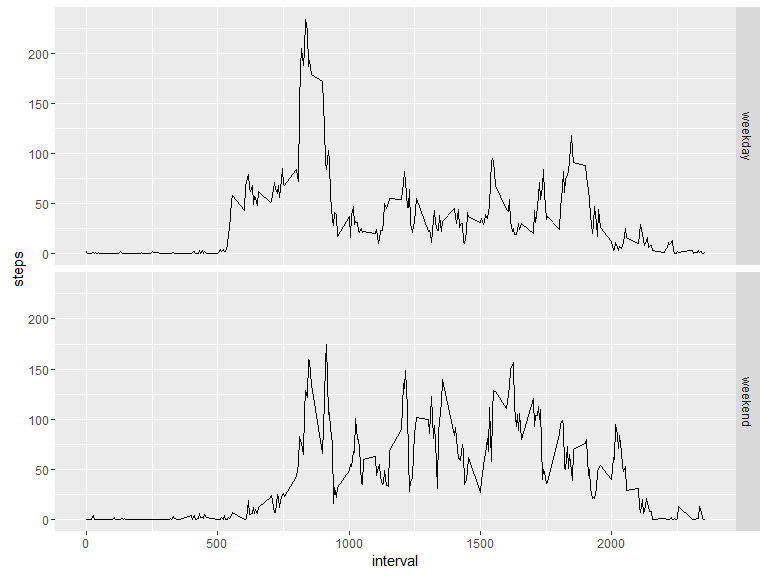
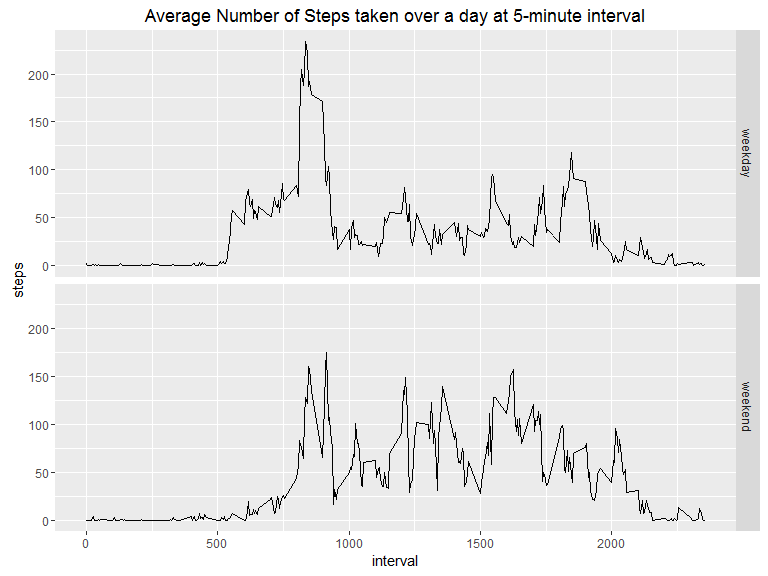
Corrections

diff --git a/PA1_template.html b/PA1_template.html
@@ -68,38 +68,41 @@ img {
 library(dplyr)
 library(ggplot2)
 library(lattice)</code></pre>
-<div id="loading-and-preprocessing-the-data" class="section level2">
-<h2>Loading and preprocessing the data</h2>
+<div id="loading-and-preprocessing-the-data." class="section level2">
+<h2>Loading and preprocessing the data.</h2>
 <pre class="r"><code>if(!file.exists(&quot;activity.csv&quot;)){unzip(&quot;activity.zip&quot;)}
 activity &lt;- read.csv(&quot;activity.csv&quot;, stringsAsFactors = FALSE)</code></pre>
 </div>
 <div id="what-is-mean-total-number-of-steps-taken-per-day" class="section level2">
 <h2>What is mean total number of steps taken per day?</h2>
-<div id="transform-date-from-character-to-date-format-and-get-total-steps-per-day" class="section level4">
-<h4>1. Transform date from character to date format and get total steps per day</h4>
-<pre class="r"><code>summaryActivity &lt;- activity %&gt;% transform(date = ymd(date)) %&gt;% group_by(date) %&gt;% summarise(steps = sum(steps, na.rm = TRUE))</code></pre>
+<div id="transform-date-from-character-to-date-format-and-get-total-steps-per-day." class="section level4">
+<h4>1. Transform date from character to date format and get total steps per day.</h4>
+<pre class="r"><code>summaryActivity &lt;- activity %&gt;% transform(date = ymd(date)) %&gt;% 
+    group_by(date) %&gt;% summarise(steps = sum(steps, na.rm = TRUE))</code></pre>
 </div>
-<div id="make-a-histogram-of-the-total-number-of-steps-taken-each-day" class="section level4">
-<h4>2. Make a histogram of the total number of steps taken each day</h4>
-<pre class="r"><code>hist(summaryActivity$steps, col = &quot;green&quot;, main = &quot;Histogram of total daily steps&quot;,
+<div id="make-a-histogram-of-the-total-number-of-steps-taken-each-day." class="section level4">
+<h4>2. Make a histogram of the total number of steps taken each day.</h4>
+<pre class="r"><code>hist(summaryActivity$steps, col = &quot;green&quot;, 
+     main = &quot;Histogram of total daily steps&quot;,
      xlab = &quot;Steps&quot;, breaks = 10)
      
 abline(v = mean(summaryActivity$steps), lwd = 2, lty = 1, col = &quot;purple&quot;)
 
 abline(v = median(summaryActivity$steps), lwd = 2, lty = 1, col = &quot;blue&quot;)
 
-legend(x= 13000, y= 16, lwd = 2, lty = 1, col = c(&quot;purple&quot;,&quot;blue&quot;), legend = c(&quot;Mean&quot;, &quot;Median&quot;), bty=&quot;n&quot;, y.intersp = .5)</code></pre>
+legend(x= 13000, y= 16, lwd = 2, lty = 1, col = c(&quot;purple&quot;,&quot;blue&quot;), 
+       legend = c(&quot;Mean&quot;, &quot;Median&quot;), bty=&quot;n&quot;, y.intersp = .5)</code></pre>
[1 lines of base64/hex data omitted]
 </div>
-<div id="report-the-mean-and-median-of-the-total-number-of-steps-taken-per-day" class="section level4">
-<h4>3. Report the mean and median of the total number of steps taken per day</h4>
+<div id="report-the-mean-and-median-of-the-total-number-of-steps-taken-per-day." class="section level4">
+<h4>3. Report the mean and median of the total number of steps taken per day.</h4>
 <div id="mean" class="section level5">
-<h5>Mean</h5>
+<h5>Mean:</h5>
 <pre class="r"><code>mean(summaryActivity$steps)</code></pre>
 <pre><code>## [1] 9354.23</code></pre>
 </div>
 <div id="median" class="section level5">
-<h5>Median</h5>
+<h5>Median:</h5>
 <pre class="r"><code>median(summaryActivity$steps)</code></pre>
 <pre><code>## [1] 10395</code></pre>
 </div>
@@ -107,13 +110,13 @@ legend(x= 13000, y= 16, lwd = 2, lty = 1, col = c(&quot;purple&quot;,&quot;blue&
 </div>
 <div id="what-is-the-average-daily-activity-pattern" class="section level2">
 <h2>What is the average daily activity pattern?</h2>
-<div id="transform-date-from-character-to-date-format-and-get-average-steps" class="section level4">
-<h4>1. Transform date from character to date format and get average steps</h4>
+<div id="transform-date-from-character-to-date-format-and-get-average-steps." class="section level4">
+<h4>1. Transform date from character to date format and get average steps.</h4>
 <pre class="r"><code>summaryInterval &lt;- activity %&gt;% transform(date = ymd(date)) %&gt;% 
     group_by(interval) %&gt;% summarise(steps = mean(steps, na.rm = TRUE))</code></pre>
 </div>
-<div id="make-a-time-series-plot" class="section level4">
-<h4>2. Make a time series plot</h4>
+<div id="make-a-time-series-plot." class="section level4">
+<h4>2. Make a time series plot.</h4>
 <pre class="r"><code>with(summaryInterval, plot(interval, steps, type = &quot;l&quot;, col = &quot;blue&quot;, lwd = 2,
                            main = &quot;Average Number of Steps Taken per Interval&quot;,
                            xlab = &quot;Interval in minutes&quot;,
@@ -130,23 +133,23 @@ legend(x= 13000, y= 16, lwd = 2, lty = 1, col = c(&quot;purple&quot;,&quot;blue&
 ## 1      835 206.1698</code></pre>
 </div>
 </div>
-<div id="imputing-missing-values" class="section level2">
-<h2>Imputing missing values</h2>
+<div id="imputing-missing-values." class="section level2">
+<h2>Imputing missing values.</h2>
 <div id="calculate-and-report-the-total-number-of-missing-values-in-the-dataset-i.e.the-total-number-of-rows-with-na-s" class="section level4">
 <h4>1. Calculate and report the total number of missing values in the dataset (i.e. the total number of rows with NA s)</h4>
 <pre class="r"><code>table(complete.cases(activity))</code></pre>
 <pre><code>## 
 ## FALSE  TRUE 
 ##  2304 15264</code></pre>
-<div id="number-of-missing-values-are-the-false-count" class="section level5">
-<h5>Number of missing values are the FALSE count</h5>
+<div id="the-false-count-indicates-the-total-number-of-missing-values." class="section level5">
+<h5>The FALSE count indicates the total number of missing values.</h5>
 </div>
 </div>
 <div id="devise-a-strategy-for-filling-in-all-of-the-missing-values-in-the-dataset." class="section level4">
 <h4>2. Devise a strategy for filling in all of the missing values in the dataset.</h4>
+<div id="use-the-mean-value-for-the-missing-items." class="section level5">
+<h5>Use the mean value for the missing items.</h5>
 <pre class="r"><code>meanStep &lt;- mean(activity$steps,na.rm = TRUE)</code></pre>
-<div id="use-the-mean-value-for-the-missing-items" class="section level5">
-<h5>Use the mean value for the missing items</h5>
 </div>
 </div>
 <div id="create-a-new-dataset-that-is-equal-to-the-original-dataset-but-with-the-missing-data-filled-in." class="section level4">
@@ -154,48 +157,57 @@ legend(x= 13000, y= 16, lwd = 2, lty = 1, col = c(&quot;purple&quot;,&quot;blue&
 <pre class="r"><code>activityNew &lt;- activity
 activityNew$steps[is.na(activityNew$steps)] &lt;- meanStep</code></pre>
 </div>
-<div id="make-a-histogram-of-the-total-number-of-steps-taken-each-day-and-calculate-and-report-the-mean-and-median-total-number-of-steps-taken-per-day" class="section level4">
-<h4>4. Make a histogram of the total number of steps taken each day and Calculate and report the mean and median total number of steps taken per day</h4>
-<pre class="r"><code>summaryActivityNew &lt;- activityNew %&gt;% transform(date = ymd(date)) %&gt;% group_by(date) %&gt;% summarise(steps = sum(steps, na.rm = TRUE))
+<div id="make-a-histogram-of-the-total-number-of-steps-taken-each-day-and-calculate-and-report-the-mean-and-median-total-number-of-steps-taken-per-day." class="section level4">
+<h4>4. Make a histogram of the total number of steps taken each day and Calculate and report the mean and median total number of steps taken per day.</h4>
+<pre class="r"><code>summaryActivityNew &lt;- activityNew %&gt;% transform(date = ymd(date)) %&gt;% 
+    group_by(date) %&gt;% summarise(steps = sum(steps, na.rm = TRUE))
 
-hist(summaryActivityNew$steps, col = &quot;green&quot;, main = &quot;Histogram of total daily steps&quot;,
+hist(summaryActivityNew$steps, col = &quot;green&quot;, 
+     main = &quot;Histogram of total daily steps&quot;,
      xlab = &quot;Steps&quot;, breaks = 10)
      
-abline(v = mean(summaryActivityNew$steps), lwd = 2, lty = 1, col = &quot;purple&quot;)
+abline(v = mean(summaryActivityNew$steps), 
+       lwd = 2, lty = 1, col = &quot;purple&quot;)
 
-abline(v = median(summaryActivityNew$steps), lwd = 2, lty = 1, col = &quot;blue&quot;)
+abline(v = median(summaryActivityNew$steps), 
+       lwd = 2, lty = 1, col = &quot;blue&quot;)
 
-legend(x= 13000, y= 16, lwd = 2, lty = 1, col = c(&quot;purple&quot;,&quot;blue&quot;), legend = c(&quot;Mean&quot;, &quot;Median&quot;), bty=&quot;n&quot;, y.intersp = .5)</code></pre>
+legend(x= 13000, y= 16, lwd = 2, lty = 1, 
+       col = c(&quot;purple&quot;,&quot;blue&quot;), 
+       legend = c(&quot;Mean&quot;, &quot;Median&quot;), bty=&quot;n&quot;, y.intersp = .5)</code></pre>
[1 lines of base64/hex data omitted]
 <div id="mean-1" class="section level5">
-<h5>Mean</h5>
+<h5>Mean:</h5>
 <pre class="r"><code>mean(summaryActivityNew$steps)</code></pre>
 <pre><code>## [1] 10766.19</code></pre>
 </div>
 <div id="median-1" class="section level5">
-<h5>Median</h5>
+<h5>Median:</h5>
 <pre class="r"><code>median(summaryActivityNew$steps)</code></pre>
 <pre><code>## [1] 10766.19</code></pre>
 </div>
-<div id="there-is-an-increase-in-mean-and-median" class="section level5">
-<h5>There is an increase in Mean and Median</h5>
+<div id="there-is-an-increase-in-mean-and-median-and-they-converge-to-the-same-value." class="section level5">
+<h5>There is an increase in Mean and Median and they converge to the same value.</h5>
 </div>
 </div>
 </div>
 <div id="are-there-differences-in-activity-patterns-between-weekdays-and-weekends" class="section level2">
 <h2>Are there differences in activity patterns between weekdays and weekends?</h2>
-<div id="create-a-new-factor-variable-in-the-dataset-with-two-levels-weekday-and-weekend" class="section level4">
-<h4>1. Create a new factor variable in the dataset with two levels – “weekday” and “weekend”</h4>
-<pre class="r"><code>activity$day &lt;- ifelse(as.POSIXlt(activity$date)$wday %in% c(0,6), &quot;weekend&quot;, &quot;weekday&quot;)
+<div id="create-a-new-factor-variable-in-the-dataset-with-two-levels-weekday-and-weekend." class="section level4">
+<h4>1. Create a new factor variable in the dataset with two levels – “weekday” and “weekend”.</h4>
+<pre class="r"><code>activity$day &lt;- ifelse(as.POSIXlt(activity$date)$wday %in% 
+                           c(0,6), &quot;weekend&quot;, &quot;weekday&quot;)
 
-activity &lt;- transform(activity, day = factor(day, labels = list(&quot;weekday&quot;, &quot;weekend&quot;)))</code></pre>
+activity &lt;- transform(activity, 
+                      day = factor(day, labels = list(&quot;weekday&quot;, &quot;weekend&quot;)))</code></pre>
 </div>
-<div id="make-a-panel-plot-containing-a-time-series-plot" class="section level4">
-<h4>2. Make a panel plot containing a time series plot</h4>
+<div id="make-a-panel-plot-containing-a-time-series-plot." class="section level4">
+<h4>2. Make a panel plot containing a time series plot.</h4>
 <pre class="r"><code>SumActivity &lt;- activity %&gt;% transform(date = ymd(date)) %&gt;% 
      group_by(interval, day) %&gt;% summarise(steps = mean(steps, na.rm = TRUE))
-qplot(interval, steps, data = SumActivity, geom = &quot;line&quot;, facets = day~.)</code></pre>
[1 lines of base64/hex data omitted]
+qplot(interval, steps, data = SumActivity, geom = &quot;line&quot;, facets = day~., 
+      main = &quot;Average Number of Steps taken over a day at 5-minute interval&quot;)</code></pre>
[1 lines of base64/hex data omitted]
 </div>
 </div>
 

diff --git a/PA1_template.md b/PA1_template.md
@@ -9,7 +9,7 @@ library(ggplot2)
 library(lattice)
 ```
 
-## Loading and preprocessing the data
+## Loading and preprocessing the data.
 
 ```r
 if(!file.exists("activity.csv")){unzip("activity.zip")}
@@ -18,31 +18,34 @@ activity <- read.csv("activity.csv", stringsAsFactors = FALSE)
 
 ## What is mean total number of steps taken per day?
 
-#### 1. Transform date from character to date format and get total steps per day
+#### 1. Transform date from character to date format and get total steps per day.
 
 ```r
-summaryActivity <- activity %>% transform(date = ymd(date)) %>% group_by(date) %>% summarise(steps = sum(steps, na.rm = TRUE))
+summaryActivity <- activity %>% transform(date = ymd(date)) %>% 
+    group_by(date) %>% summarise(steps = sum(steps, na.rm = TRUE))
 ```
 
-#### 2. Make a histogram of the total number of steps taken each day 
+#### 2. Make a histogram of the total number of steps taken each day. 
 
 
 ```r
-hist(summaryActivity$steps, col = "green", main = "Histogram of total daily steps",
+hist(summaryActivity$steps, col = "green", 
+     main = "Histogram of total daily steps",
      xlab = "Steps", breaks = 10)
      
 abline(v = mean(summaryActivity$steps), lwd = 2, lty = 1, col = "purple")
 
 abline(v = median(summaryActivity$steps), lwd = 2, lty = 1, col = "blue")
 
-legend(x= 13000, y= 16, lwd = 2, lty = 1, col = c("purple","blue"), legend = c("Mean", "Median"), bty="n", y.intersp = .5)
+legend(x= 13000, y= 16, lwd = 2, lty = 1, col = c("purple","blue"), 
+       legend = c("Mean", "Median"), bty="n", y.intersp = .5)
 ```
 
 ![](Figs/unnamed-chunk-4-1.png) 
 
-#### 3. Report the mean and median of the total number of steps taken per day
+#### 3. Report the mean and median of the total number of steps taken per day.
 
-##### Mean
+##### Mean:
 
 ```r
 mean(summaryActivity$steps)
@@ -52,7 +55,7 @@ mean(summaryActivity$steps)
 ## [1] 9354.23
 ```
 
-##### Median
+##### Median:
 
 ```r
 median(summaryActivity$steps)
@@ -64,7 +67,7 @@ median(summaryActivity$steps)
 
 ## What is the average daily activity pattern?
 
-#### 1. Transform date from character to date format and get average steps
+#### 1. Transform date from character to date format and get average steps.
 
 ```r
 summaryInterval <- activity %>% transform(date = ymd(date)) %>% 
@@ -72,7 +75,7 @@ summaryInterval <- activity %>% transform(date = ymd(date)) %>%
 ```
     
     
-#### 2. Make a time series plot
+#### 2. Make a time series plot.
 
 ```r
 with(summaryInterval, plot(interval, steps, type = "l", col = "blue", lwd = 2,
@@ -99,7 +102,7 @@ filter(summaryInterval, steps == max(steps))
 ## 1      835 206.1698
 ```
 
-## Imputing missing values
+## Imputing missing values.
 
 #### 1. Calculate and report the total number of missing values in the dataset (i.e. the total number of rows with  NA s)
 
@@ -114,15 +117,16 @@ table(complete.cases(activity))
 ##  2304 15264
 ```
 
-##### Number of missing values are the FALSE count
+##### The FALSE count indicates the total number of missing values.
 
 #### 2. Devise a strategy for filling in all of the missing values in the dataset.
+
+##### Use the mean value for the missing items.
 
 ```r
 meanStep <- mean(activity$steps,na.rm = TRUE)
 ```
 
-##### Use the mean value for the missing items 
 
 #### 3. Create a new dataset that is equal to the original dataset but with the missing data filled in.
 
@@ -132,24 +136,30 @@ activityNew <- activity
 activityNew$steps[is.na(activityNew$steps)] <- meanStep
 ```
 
-#### 4. Make a histogram of the total number of steps taken each day and Calculate and report the mean and median total number of steps taken per day
+#### 4. Make a histogram of the total number of steps taken each day and Calculate and report the mean and median total number of steps taken per day.
 
 ```r
-summaryActivityNew <- activityNew %>% transform(date = ymd(date)) %>% group_by(date) %>% summarise(steps = sum(steps, na.rm = TRUE))
+summaryActivityNew <- activityNew %>% transform(date = ymd(date)) %>% 
+    group_by(date) %>% summarise(steps = sum(steps, na.rm = TRUE))
 
-hist(summaryActivityNew$steps, col = "green", main = "Histogram of total daily steps",
+hist(summaryActivityNew$steps, col = "green", 
+     main = "Histogram of total daily steps",
      xlab = "Steps", breaks = 10)
      
-abline(v = mean(summaryActivityNew$steps), lwd = 2, lty = 1, col = "purple")
+abline(v = mean(summaryActivityNew$steps), 
+       lwd = 2, lty = 1, col = "purple")
 
-abline(v = median(summaryActivityNew$steps), lwd = 2, lty = 1, col = "blue")
+abline(v = median(summaryActivityNew$steps), 
+       lwd = 2, lty = 1, col = "blue")
 
-legend(x= 13000, y= 16, lwd = 2, lty = 1, col = c("purple","blue"), legend = c("Mean", "Median"), bty="n", y.intersp = .5)
+legend(x= 13000, y= 16, lwd = 2, lty = 1, 
+       col = c("purple","blue"), 
+       legend = c("Mean", "Median"), bty="n", y.intersp = .5)
 ```
 
 ![](Figs/unnamed-chunk-13-1.png) 
 
-##### Mean
+##### Mean:
 
 ```r
 mean(summaryActivityNew$steps)
@@ -159,7 +169,7 @@ mean(summaryActivityNew$steps)
 ## [1] 10766.19
 ```
 
-##### Median
+##### Median:
 
 ```r
 median(summaryActivityNew$steps)
@@ -169,27 +179,29 @@ median(summaryActivityNew$steps)
 ## [1] 10766.19
 ```
 
-##### There is an increase in Mean and Median
+##### There is an increase in Mean and Median and they converge to the same value.
 
 ## Are there differences in activity patterns between weekdays and weekends?
 
-#### 1. Create a new factor variable in the dataset with two levels -- "weekday" and "weekend"
-
+#### 1. Create a new factor variable in the dataset with two levels -- "weekday" and "weekend".
 
 
 ```r
-activity$day <- ifelse(as.POSIXlt(activity$date)$wday %in% c(0,6), "weekend", "weekday")
+activity$day <- ifelse(as.POSIXlt(activity$date)$wday %in% 
+                           c(0,6), "weekend", "weekday")
 
-activity <- transform(activity, day = factor(day, labels = list("weekday", "weekend")))
+activity <- transform(activity, 
+                      day = factor(day, labels = list("weekday", "weekend")))
 ```
 
-#### 2. Make a panel plot containing a time series plot 
+#### 2. Make a panel plot containing a time series plot. 
 
 
 ```r
 SumActivity <- activity %>% transform(date = ymd(date)) %>% 
      group_by(interval, day) %>% summarise(steps = mean(steps, na.rm = TRUE))
-qplot(interval, steps, data = SumActivity, geom = "line", facets = day~.)
+qplot(interval, steps, data = SumActivity, geom = "line", facets = day~., 
+      main = "Average Number of Steps taken over a day at 5-minute interval")
 ```
 
 ![](Figs/unnamed-chunk-17-1.png) 
